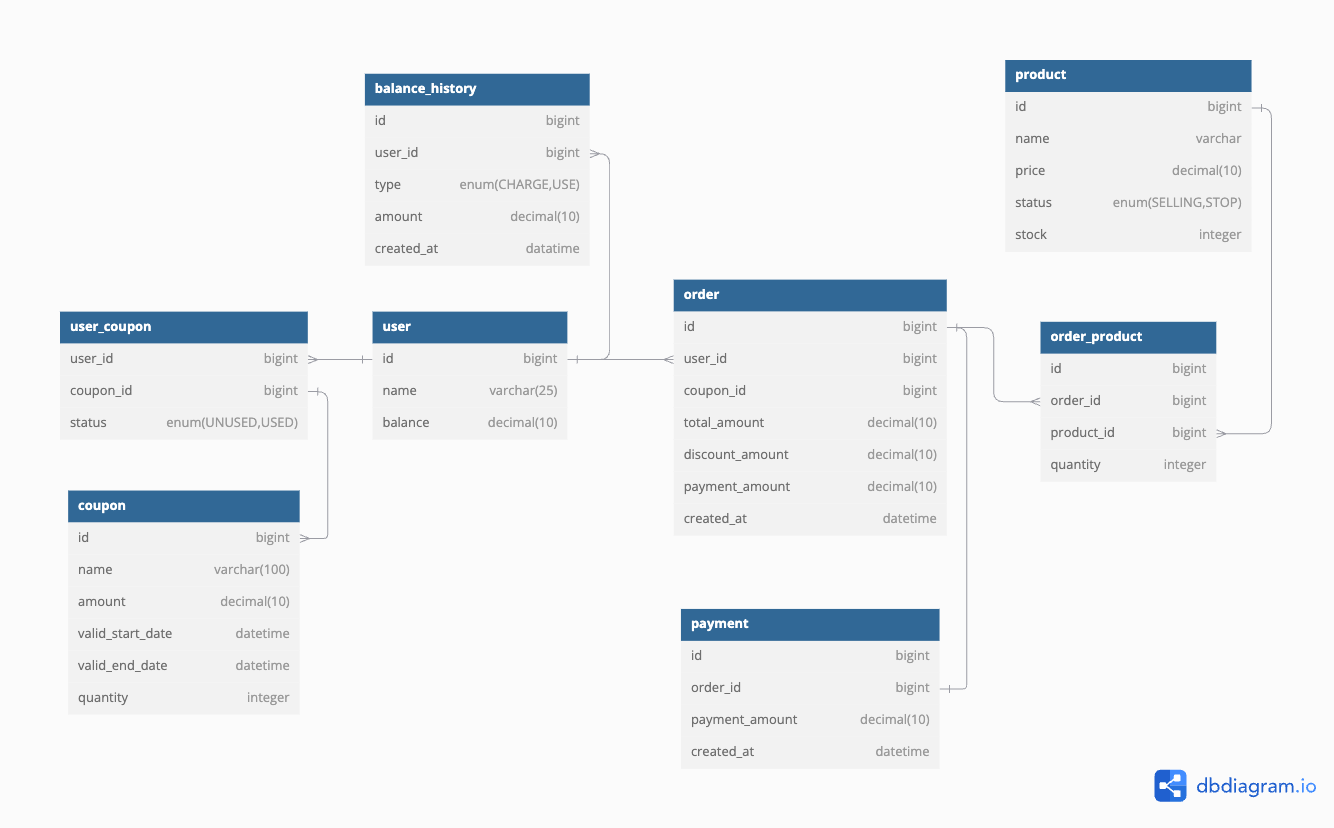
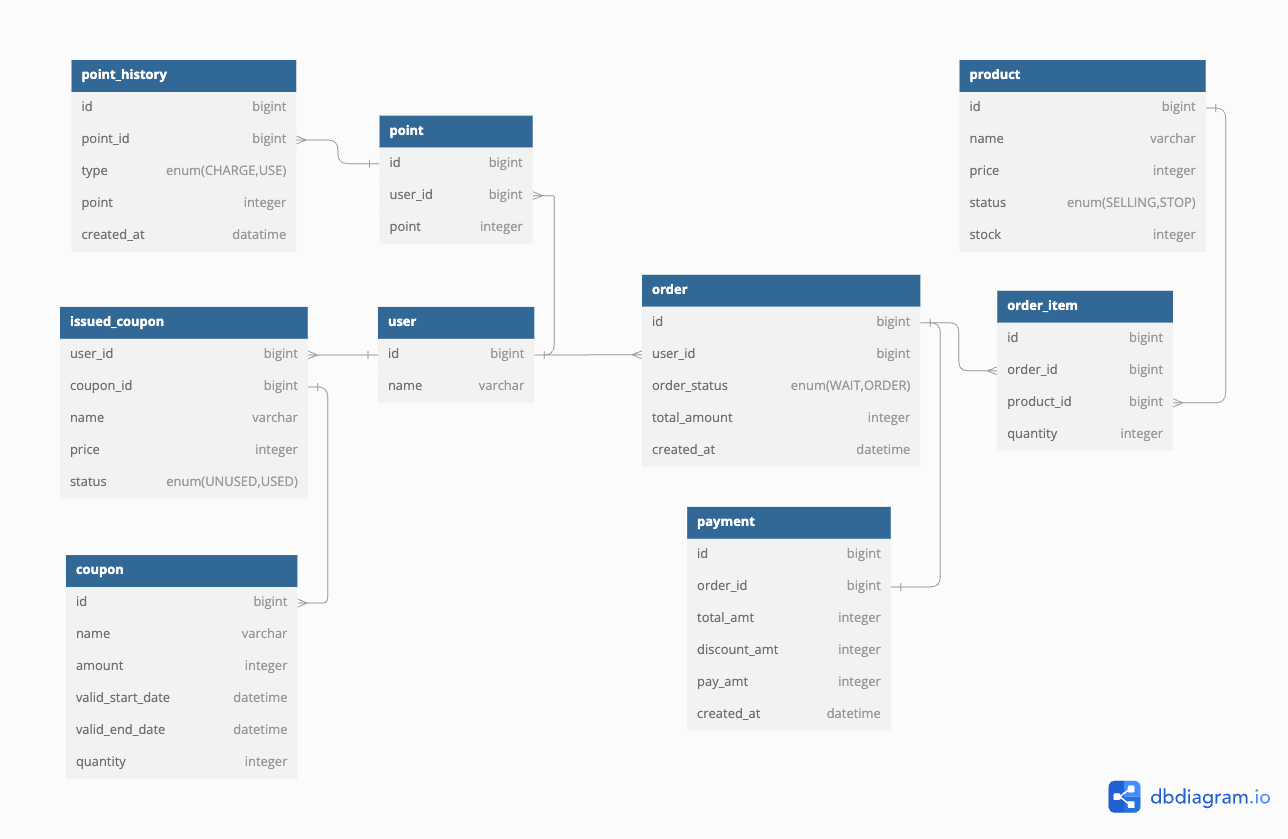
Docs: ERD, Sequence 수정

diff --git a/docs/SequenceDiagram/SequenceDiagram.md b/docs/SequenceDiagram/SequenceDiagram.md
@@ -5,18 +5,18 @@
 ## 1. 잔액 충전
 ```mermaid
 sequenceDiagram
-    actor I as 사용자
-    participant User as User
-    participant BalanceHistory as BalanceHistory
+    actor I as 유저
+    participant Point as Point
+    participant PointHistory as PointHistory
 
-    I ->> User : 잔액 충전 요청
+    I ->> Point : 잔액 충전 요청
     alt 충전 금액 <= 0
-        User -->> I : 잔액 충전 실패 
+        Point -->> I : 잔액 충전 실패 
     else 충전 금액 > 0
-        User ->> User : 보유 잔액 조회 + 요청 잔액
-        User ->> BalanceHistory : 잔액 충전 기록 요청
-        BalanceHistory -->> User : 잔액 충전 기록
-        User -->> I : 잔액 충전 성공
+        Point ->> Point : 보유 잔액 조회 + 요청 잔액
+        Point ->> PointHistory : 잔액 충전 기록 요청
+        PointHistory -->> Point : 잔액 충전 기록
+        Point -->> I : 잔액 충전 성공
     end
     
 ```
@@ -24,7 +24,7 @@ sequenceDiagram
 ## 2. 상품 조회
 ```mermaid
 sequenceDiagram
-    actor I as 사용자
+    actor I as 유저
     participant Product as Product
 
     I ->> Product : 상품 목록 조회 요청
@@ -36,22 +36,20 @@ sequenceDiagram
 ## 3. 쿠폰 발급
 ```mermaid
 sequenceDiagram
-    actor I as 사용자
+    actor I as 유저
+    participant IssuedCoupon as IssuedCoupon
     participant Coupon as Coupon
-    participant UserCoupon as UserCoupon
 
-    I ->> Coupon : 쿠폰 발급 요청
-    Coupon ->> Coupon : 선착순 재고 조회
-    alt 쿠폰 선착순 재고 없으면
-        Coupon -->> I : 쿠폰 발급 실패
-    else 쿠폰 선착순 재고 있으면
-        Coupon ->> UserCoupon : 사용자가 해당 쿠폰이 있는지 조회
-        UserCoupon -->> Coupon : 사용자가 해당 쿠폰이 있는지 반환
-        alt 사용자가 해당 쿠폰이 없으면
+    I ->> IssuedCoupon : 유저가 쿠폰 있는지 조회
+    alt 유저가 쿠폰 있으면
+        IssuedCoupon -->> I : 쿠폰 발급 실패 
+    else 유저가 쿠폰 없으면
+        IssuedCoupon ->> Coupon : 선착순 재고 조회
+        alt 선착순 재고 없으면
+            Coupon -->> I : 쿠폰 발급 실패
+        else 선착순 재고 있으면
             Coupon ->> Coupon : 쿠폰 선착순 재고 차감
             Coupon -->> I : 쿠폰 발급 성공
-        else 사용자가 해당 쿠폰이 있으면
-            Coupon -->> I : 쿠폰 발급 실패
         end
     end
 ```
@@ -59,55 +57,53 @@ sequenceDiagram
 ## 4. 주문
 ```mermaid
 sequenceDiagram
-    actor I as 사용자
+    actor I as 유저
     participant OrderFacade as OrderFacade
-    participant Coupon as Coupon
     participant Product as Product
     participant Order as Order
-    participant User as User
+    participant Coupon as Coupon
     participant Payment as Payment
+    participant Point as Point
     participant DataPlatform as DataPlatform
-
+    
     I ->> OrderFacade : 주문 요청
+    OrderFacade ->> Product : 주문 금액 계산
+    Product -->> OrderFacade : 주문 금액 반환
+    OrderFacade ->> Order : 주문 생성
+    Order -->> OrderFacade : 주문 반환
     OrderFacade ->> Coupon : 쿠폰 확인 요청
-    Coupon ->> Coupon : 쿠폰 사용기간 확인
-    alt 쿠폰 사용 불가하면
-        Coupon -->> OrderFacade : 쿠폰 사용 실패
-        OrderFacade -->> I : 주문 실패
-    else 쿠폰 사용 가능하면
-        Coupon -->> OrderFacade : 쿠폰 사용
-        OrderFacade ->> Product : 판매 상태, 재고 차감 요청
-        Product ->> Product : 판매 상태, 재고 차감
-        alt 판매 중단 상품 or 재고 부족하면
-            Product -->> OrderFacade : 실패
-            Order -->> I : 주문 실패
-        else 판매 중 상품 and 재고 있으면
-            Product -->> OrderFacade : 재고 차감 및 금액 계산
-            OrderFacade ->> Order : 주문 생성 요청
-            Order -->> OrderFacade : 주문 생성
-            OrderFacade ->> User : 잔액 사용 요청
-            alt 결제 금액 > 보유 잔액
-                User -->> OrderFacade : 잔액 사용 실패
-                OrderFacade -->> I : 주문 실패
-            else 결제 금액 <= 보유 잔액
-                User -->> OrderFacade : 잔액 사용
-                OrderFacade ->> Payment : 결제 생성 요청
-                Payment ->> DataPlatform : 데이터 외부로 전송
-                DataPlatform -->> Payment : 외부 응답
-                Payment -->> OrderFacade : 결제 성공
-                OrderFacade -->> I : 주문 성공
-            end
+        alt 쿠폰 사용 불가하면
+            Coupon -->> OrderFacade : null 반환
+        else 쿠폰 사용 가능하면
+            Coupon -->> OrderFacade : 쿠폰 정보 반환
         end
-    end
+    OrderFacade ->> Payment : 결제 요청
+    Payment -->> OrderFacade : 결제 반환
+    OrderFacade ->> Point : 포인트 사용 요청
+        alt 포인트 부족하면
+            Point -->> I : 주문 실패
+        else 포인트 충분하면
+            Point -->> OrderFacade : 포인트 사용
+        end
+    OrderFacade ->> Product : 재고 차감 요청
+        alt 재고 부족하면
+            Product -->> I : 주문 실패
+        else 재고 충분하면
+            Product -->> OrderFacade : 재고 차감
+        end
+    OrderFacade ->> Order : 주문 완료 요청
+    Order -->> OrderFacade : 주문 완료 처리
+    Order ->> DataPlatform : 주문 데이터 외부로 전송
+    OrderFacade -->> I : 주문 완료
     
 ```
 
 ## 5. 인기 상품 조회
 ```mermaid
 sequenceDiagram
-    actor I as 사용자
-    participant OrderProduct as OrderProduct
+    actor I as 유저
+    participant OrderItem as OrderItem
 
-    I ->> OrderProduct : 인기 상품 조회 요청
-    OrderProduct -->> I : 인기 상품 목록 반환
+    I ->> OrderItem : 인기 상품 조회 요청
+    OrderItem -->> I : 인기 상품 목록 반환
 ```
